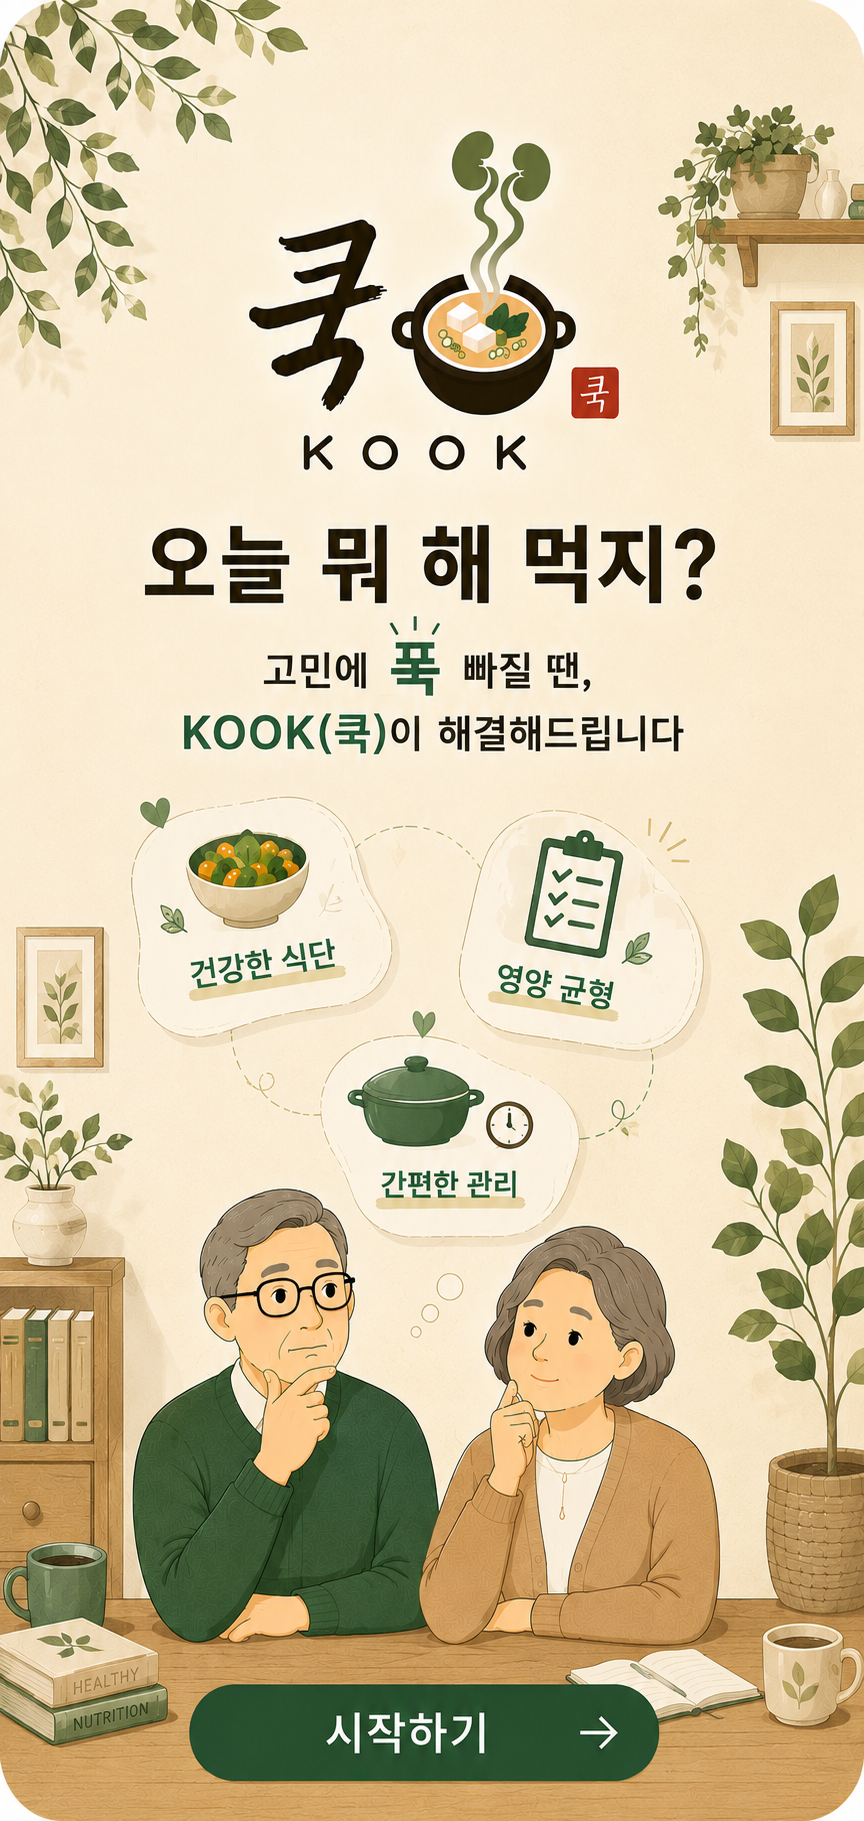
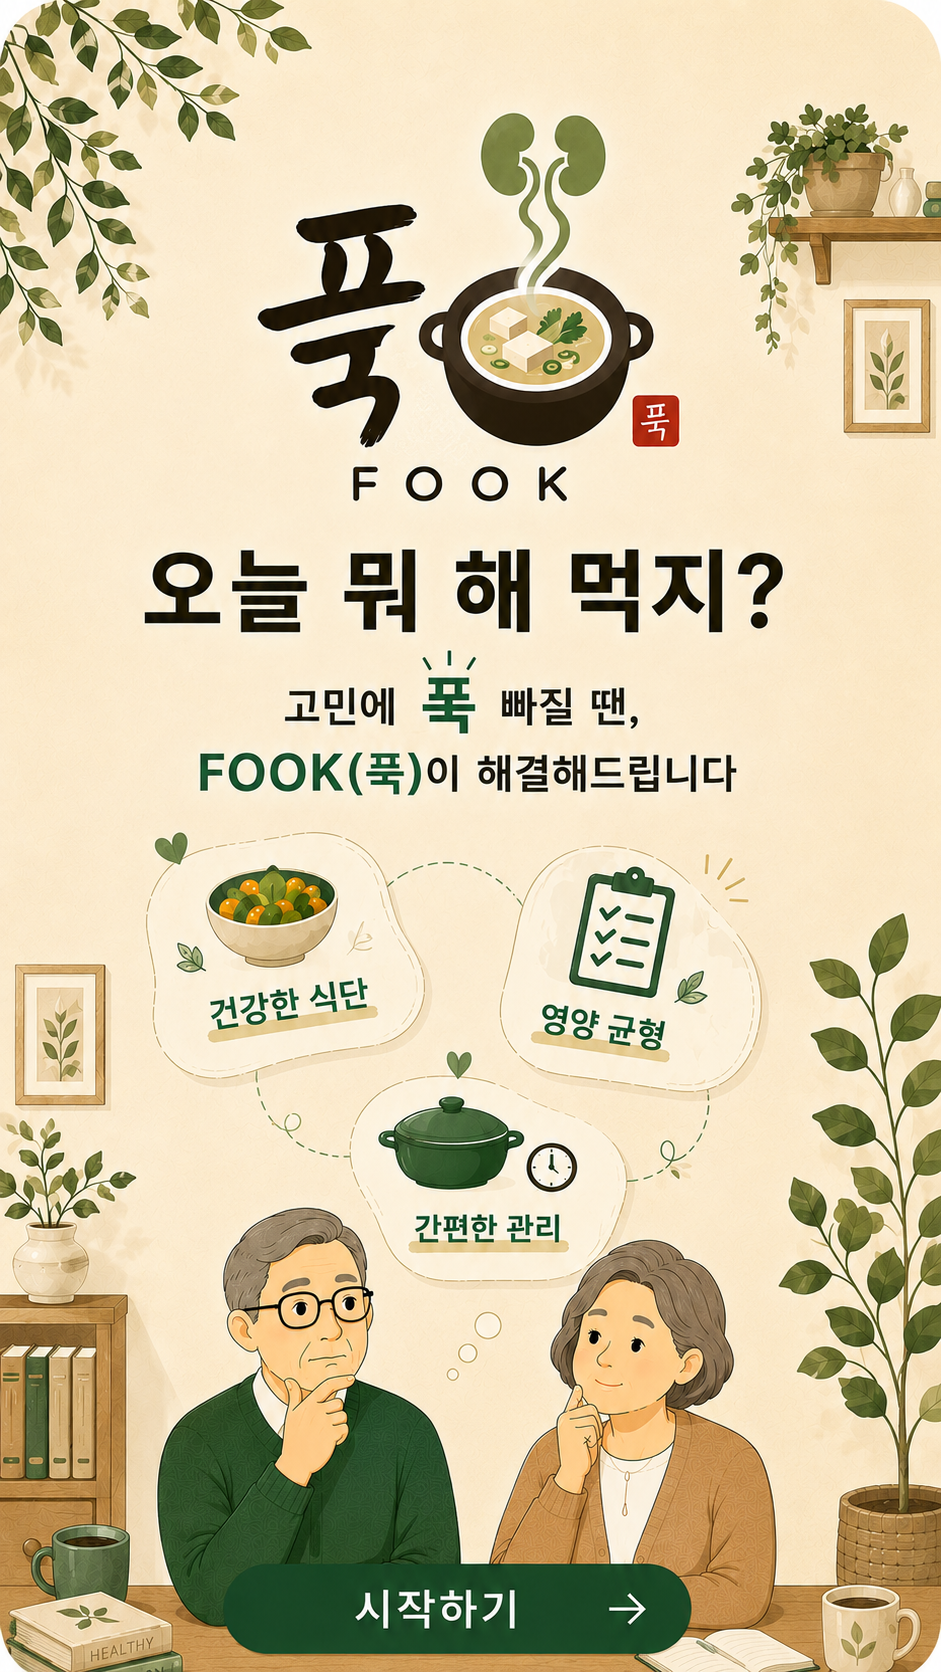
assets: 홈 이미지를 FOOK 시안으로 교체 · 스플래시 좌표 재측정
이미지가 864x1821 -> 941x1672 로 바뀌어 비율과 버튼 위치가 달라졌다.
그대로 두면 프레임이 이미지보다 세로로 길어 그림이 잘리고, 투명 버튼이
그림 속 버튼을 벗어난다.

- --splash-ar 2.108 -> 1.777
- .splash-hit 를 실측 픽셀(x 188~690, y 1564~1653) 기준으로 재계산

검증: 프레임과 이미지 비율 차이 0.0002(잘림 없음), 투명 버튼 중심이
그림 속 초록 버튼 위(rgb 28,83,42)에 놓임, 클릭 시 온보딩으로 전환,
320~430px 전 구간에서 세로 넘침 없음.

diff --git a/frontend/src/fluid.css b/frontend/src/fluid.css
@@ -372,7 +372,7 @@
    프레임이 이미지 상자와 정확히 일치하므로, 안에 겹쳐 둔 % 좌표(시작하기 버튼)는
    배율과 무관하게 그림 위 같은 자리에 붙어 있는다. */
 .splash-frame {
-  --splash-ar: 2.108;   /* onboarding-home.png = 864 x 1821 */
+  --splash-ar: 1.777;   /* onboarding-home.png = 941 x 1672 */
   --splash-scale: .88;
   position: relative;
   flex: none;                        /* flex가 임의로 줄이지 못하게 */
@@ -397,7 +397,8 @@
 /* 그림 속 버튼 위 투명 버튼 */
 .splash-hit {
   position: absolute;
-  left: 22.3%; right: 24.3%; top: 92.8%; bottom: 2.8%;
+  /* 그림 속 버튼 픽셀 위치(x 188~690, y 1564~1653)를 이미지 크기로 나눈 값 */
+  left: 20.0%; right: 26.6%; top: 93.5%; bottom: 1.1%;
   border: 0; background: transparent; padding: 0;
   border-radius: 999px; cursor: pointer;
 }
